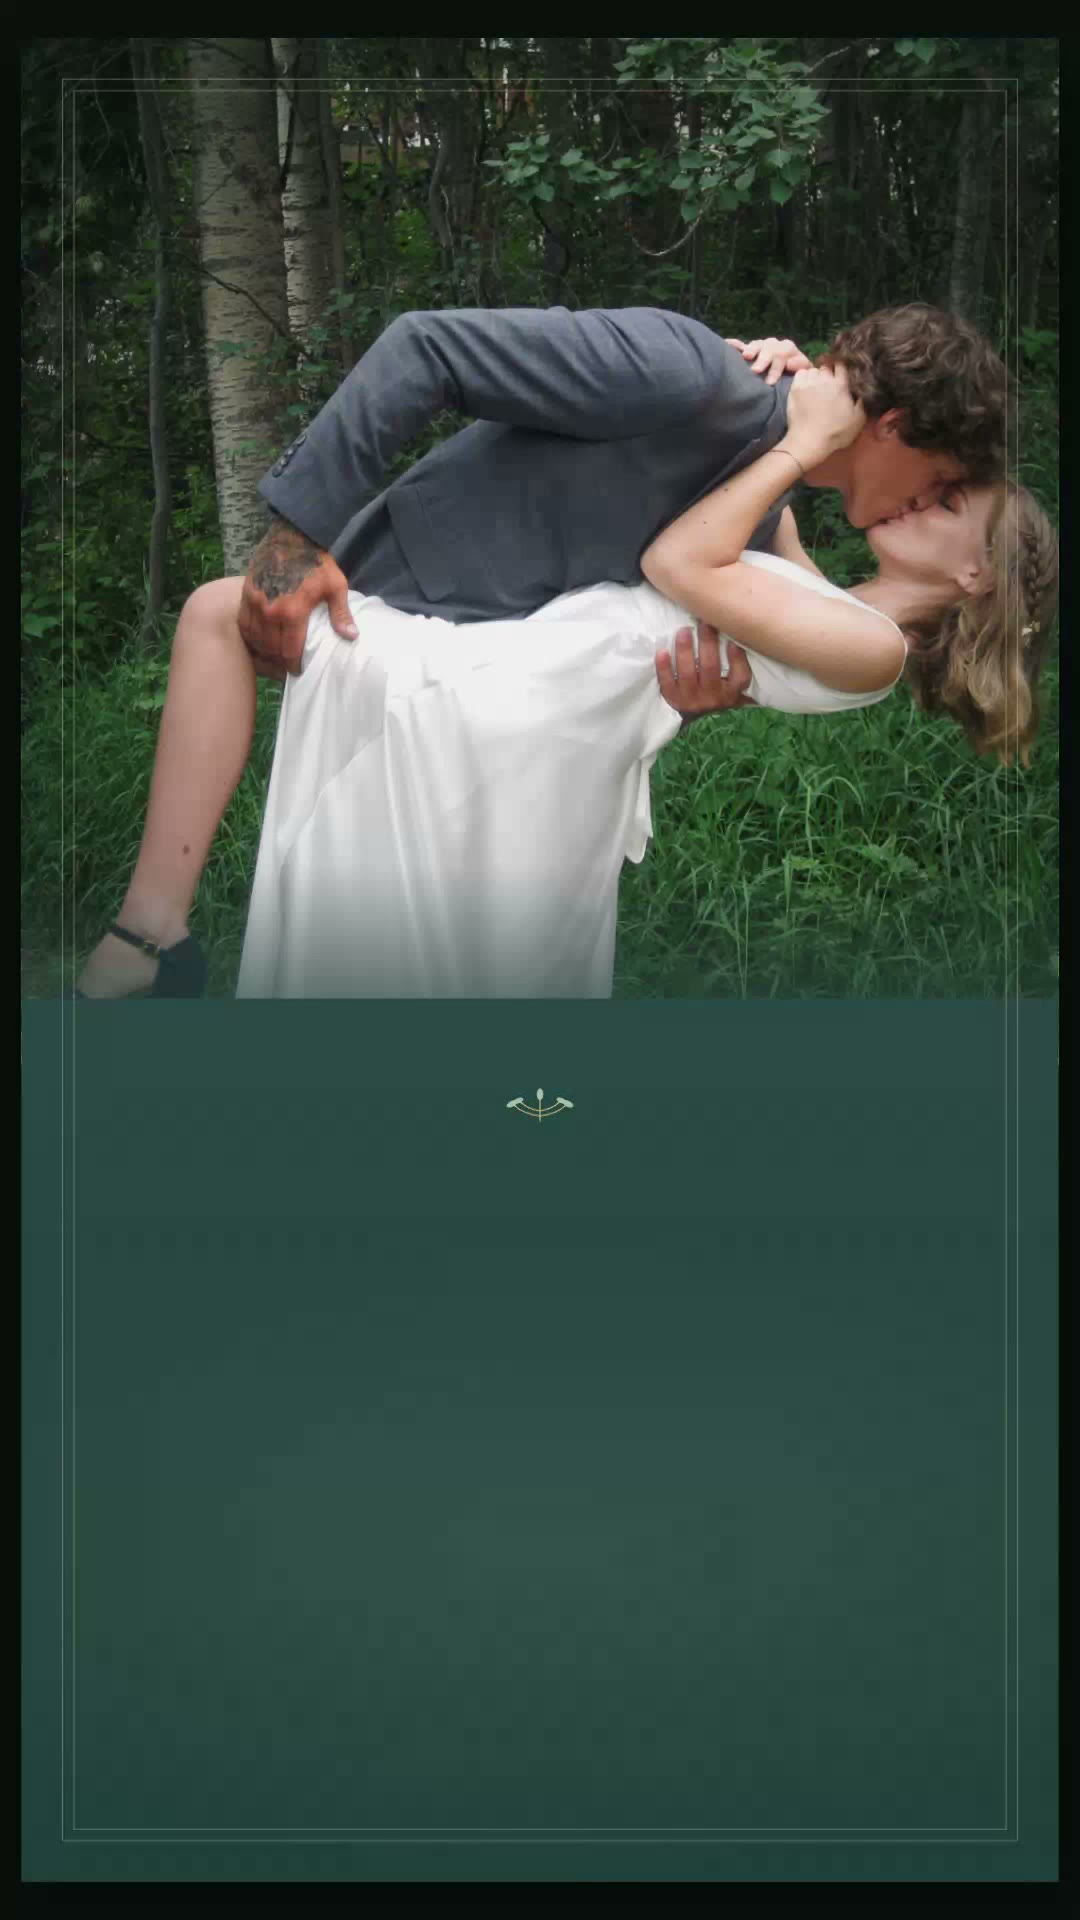
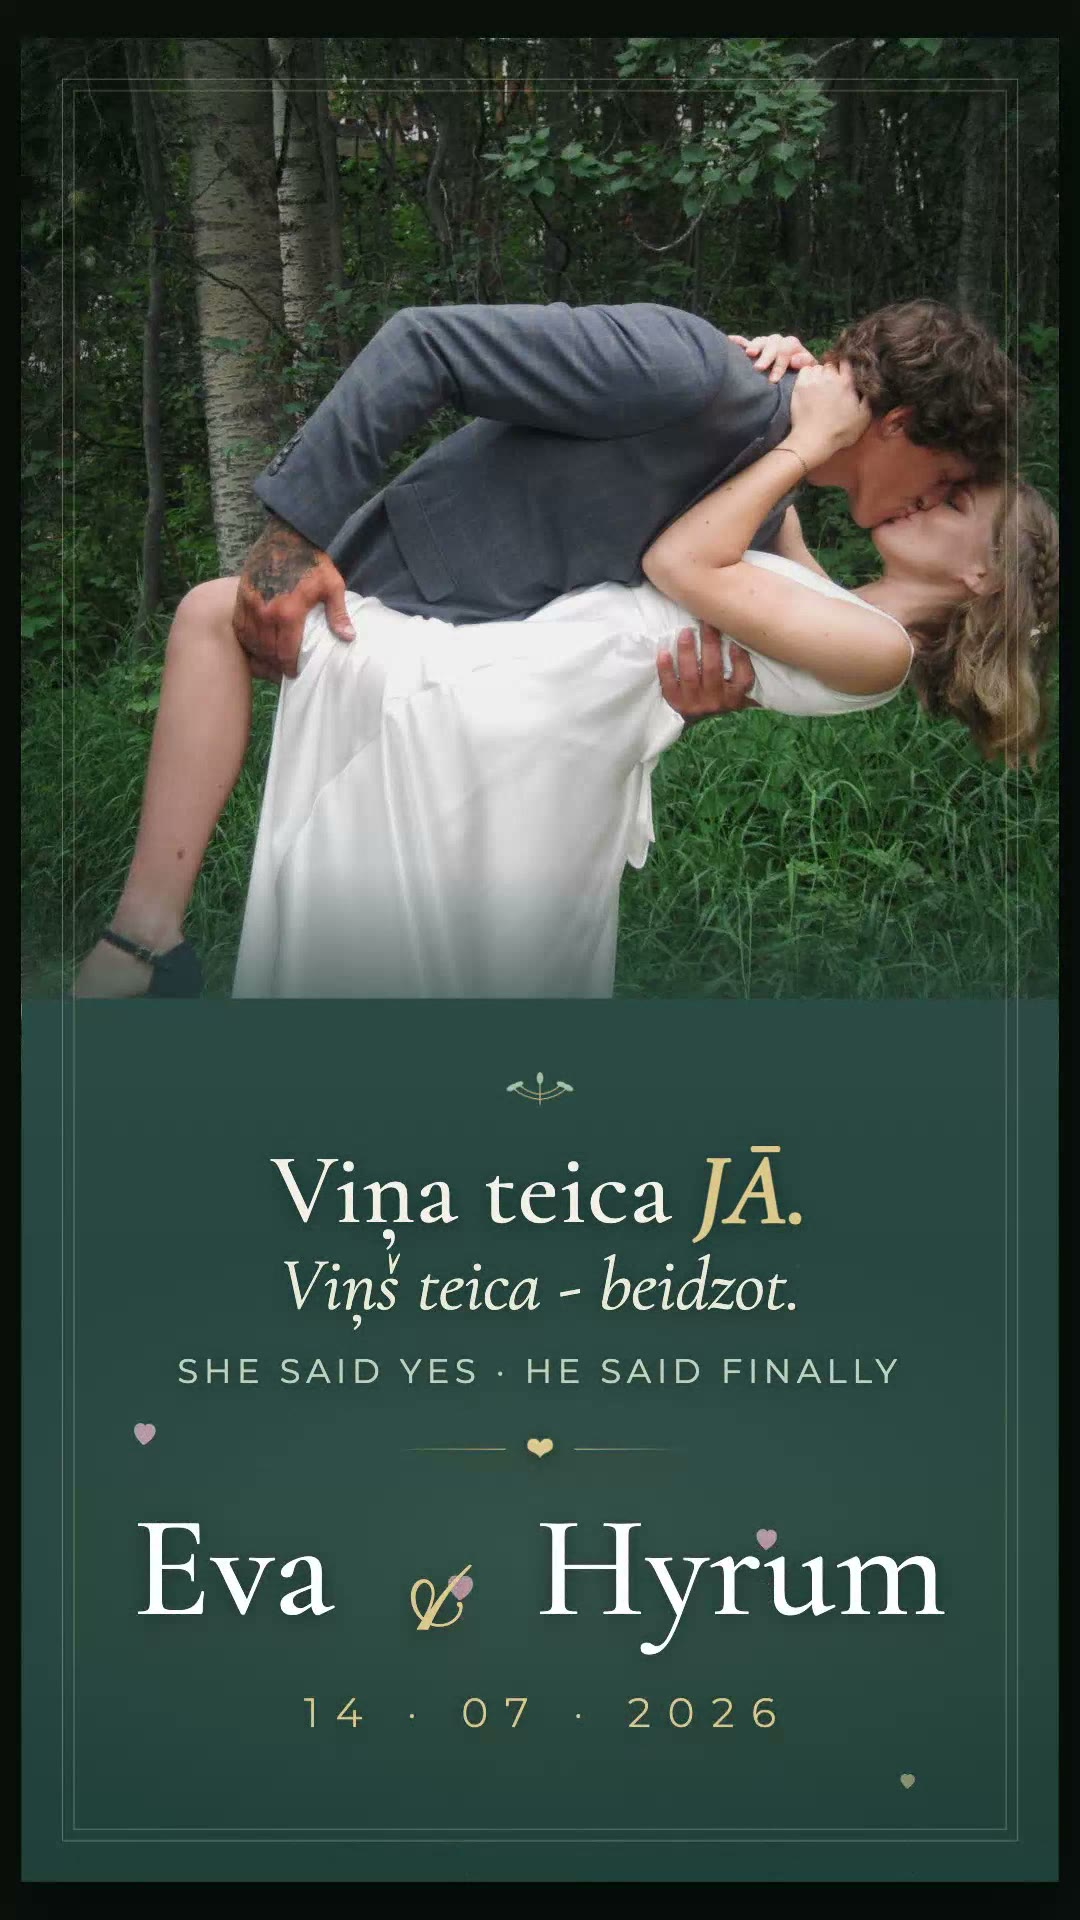
Elegant footer credits grid, story video starts at 0:05

diff --git a/index.html b/index.html
@@ -76,7 +76,7 @@
       <div class="story-grid">
         <div class="story-video">
           <video controls preload="metadata" playsinline poster="images/story-video-poster.jpg">
-            <source src="images/story-video.mp4" type="video/mp4" />
+            <source src="images/story-video.mp4#t=5" type="video/mp4" />
           </video>
         </div>
         <div class="story-text">
@@ -143,38 +143,50 @@
     <div class="container center">
       <p class="footer-monogram">E &amp; H</p>
       <p class="footer-date">14 · 07 · 2026</p>
-      <p class="footer-tag">#EvaHyrum2026</p>
-      <p class="footer-invite-link">
-        <a class="credit-link" href="invite.html">
-          <span data-lang="en">Our wedding invitation ↗</span>
-          <span data-lang="lv">Mūsu kāzu ielūgums ↗</span>
-        </a>
-      </p>
       <p class="footer-love">
         <span data-lang="en">With all our love, Eva &amp; Hyrum</span>
         <span data-lang="lv">Ar mīlestību, Eva un Hyrum</span>
       </p>
-      <div class="footer-credits">
-        <p class="footer-credit">
-          <span data-lang="en">Eva &amp; Hyrum: <a class="credit-link" href="https://www.instagram.com/evaferbey" target="_blank" rel="noopener">@evaferbey</a></span>
-          <span data-lang="lv">Eva un Hyrum: <a class="credit-link" href="https://www.instagram.com/evaferbey" target="_blank" rel="noopener">@evaferbey</a></span>
-        </p>
-        <p class="footer-credit">
-          <span data-lang="en">Photography: <a class="credit-link" href="https://www.instagram.com/o_zernov" target="_blank" rel="noopener">Oļegs Zernovs</a></span>
-          <span data-lang="lv">Fotogrāfs: <a class="credit-link" href="https://www.instagram.com/o_zernov" target="_blank" rel="noopener">Oļegs Zernovs</a></span>
-        </p>
-        <p class="footer-credit">
-          <span data-lang="en">Wedding planner: <a class="credit-link" href="https://www.instagram.com/alisemihimana" target="_blank" rel="noopener">Alise Mihman</a></span>
-          <span data-lang="lv">Kāzu plānotāja: <a class="credit-link" href="https://www.instagram.com/alisemihimana" target="_blank" rel="noopener">Alise Mihman</a></span>
-        </p>
-        <p class="footer-credit">
-          <span data-lang="en">Dress: <a class="credit-link" href="https://www.instagram.com/mossbridal" target="_blank" rel="noopener">Moss Bridal</a> · Groom's look: <a class="credit-link" href="https://www.instagram.com/monokelriga" target="_blank" rel="noopener">Monokel Riga</a></span>
-          <span data-lang="lv">Kleita: <a class="credit-link" href="https://www.instagram.com/mossbridal" target="_blank" rel="noopener">Moss Bridal</a> · Līgavaiņa tērps: <a class="credit-link" href="https://www.instagram.com/monokelriga" target="_blank" rel="noopener">Monokel Riga</a></span>
-        </p>
-        <p class="footer-credit">
-          <span data-lang="en">Venue: <a class="credit-link" href="https://www.instagram.com/nordeku_muiza" target="_blank" rel="noopener">Nordeķu Muiža</a>, Rīga</span>
-          <span data-lang="lv">Norises vieta: <a class="credit-link" href="https://www.instagram.com/nordeku_muiza" target="_blank" rel="noopener">Nordeķu muiža</a>, Rīga</span>
-        </p>
+      <p class="footer-tagrow">
+        <a class="footer-pill" href="https://www.instagram.com/evaferbey" target="_blank" rel="noopener">@evaferbey</a>
+        <span class="footer-pill footer-pill-static">#EvaHyrum2026</span>
+        <a class="footer-pill" href="invite.html">
+          <span data-lang="en">Invitation ↗</span>
+          <span data-lang="lv">Ielūgums ↗</span>
+        </a>
+      </p>
+      <div class="footer-rule" aria-hidden="true"></div>
+      <div class="footer-credits-grid">
+        <div class="credit-item">
+          <span class="credit-label" data-lang="en">Photography</span>
+          <span class="credit-label" data-lang="lv">Fotogrāfs</span>
+          <a class="credit-name" href="https://www.instagram.com/o_zernov" target="_blank" rel="noopener">Oļegs Zernovs</a>
+        </div>
+        <div class="credit-item">
+          <span class="credit-label" data-lang="en">Wedding planner</span>
+          <span class="credit-label" data-lang="lv">Kāzu plānotāja</span>
+          <a class="credit-name" href="https://www.instagram.com/alisemihimana" target="_blank" rel="noopener">Alise Mihman</a>
+        </div>
+        <div class="credit-item">
+          <span class="credit-label" data-lang="en">Venue</span>
+          <span class="credit-label" data-lang="lv">Norises vieta</span>
+          <a class="credit-name" href="https://www.instagram.com/nordeku_muiza" target="_blank" rel="noopener">Nordeķu muiža</a>
+        </div>
+        <div class="credit-item">
+          <span class="credit-label" data-lang="en">Dress</span>
+          <span class="credit-label" data-lang="lv">Kleita</span>
+          <a class="credit-name" href="https://www.instagram.com/mossbridal" target="_blank" rel="noopener">Moss Bridal</a>
+        </div>
+        <div class="credit-item">
+          <span class="credit-label" data-lang="en">Groom's look</span>
+          <span class="credit-label" data-lang="lv">Līgavaiņa tērps</span>
+          <a class="credit-name" href="https://www.instagram.com/monokelriga" target="_blank" rel="noopener">Monokel Riga</a>
+        </div>
+        <div class="credit-item">
+          <span class="credit-label" data-lang="en">Film &amp; moments</span>
+          <span class="credit-label" data-lang="lv">Video un mirkļi</span>
+          <a class="credit-name" href="https://www.instagram.com/evaferbey" target="_blank" rel="noopener">@evaferbey</a>
+        </div>
       </div>
     </div>
   </footer>

diff --git a/after.css b/after.css
@@ -201,12 +201,61 @@
 .footer-credits .credit-link { border-bottom-color: rgba(244, 241, 234, 0.35); }
 
 /* Footer */
-.footer { background: #1a2332; color: #f4f1ea; padding: 3.4rem 0 3rem; text-align: center; }
+.footer { background: #1a2332; color: #f4f1ea; padding: 3.6rem 0 3.2rem; text-align: center; }
 .footer-monogram { font-family: 'Cormorant Garamond', serif; font-size: 1.9rem; letter-spacing: 0.25em; margin: 0; }
 .footer-date { letter-spacing: 0.3em; font-size: 0.85rem; margin: 0.5rem 0 0; opacity: 0.8; }
-.footer-tag { font-size: 0.85rem; letter-spacing: 0.12em; margin: 1.1rem 0 0; opacity: 0.65; }
-.footer-love { font-family: 'Cormorant Garamond', serif; font-style: italic; font-size: 1.15rem; margin: 1.2rem 0 0; }
-.footer-credit { font-size: 0.78rem; letter-spacing: 0.08em; margin: 1.4rem 0 0; opacity: 0.55; }
+.footer-love { font-family: 'Cormorant Garamond', serif; font-style: italic; font-size: 1.3rem; margin: 1.4rem 0 0; }
+.footer-tagrow {
+  display: flex;
+  justify-content: center;
+  flex-wrap: wrap;
+  gap: 0.6rem;
+  margin: 1.5rem 0 0;
+}
+.footer-pill {
+  font-family: 'Inter', sans-serif;
+  font-size: 0.78rem;
+  letter-spacing: 0.09em;
+  color: #f4f1ea;
+  text-decoration: none;
+  border: 1px solid rgba(244, 241, 234, 0.3);
+  border-radius: 999px;
+  padding: 0.42rem 1.1rem;
+  opacity: 0.85;
+}
+a.footer-pill:hover { opacity: 1; background: rgba(244, 241, 234, 0.08); }
+.footer-pill-static { opacity: 0.6; }
+.footer-rule {
+  width: 64px;
+  height: 1px;
+  background: rgba(244, 241, 234, 0.3);
+  margin: 2.4rem auto 2.2rem;
+}
+.footer-credits-grid {
+  display: grid;
+  grid-template-columns: repeat(3, minmax(0, 1fr));
+  gap: 1.6rem 1.2rem;
+  max-width: 720px;
+  margin: 0 auto;
+}
+@media (max-width: 620px) {
+  .footer-credits-grid { grid-template-columns: repeat(2, minmax(0, 1fr)); }
+}
+.credit-item { display: flex; flex-direction: column; gap: 0.3rem; }
+.credit-label {
+  font-family: 'Inter', sans-serif;
+  font-size: 0.66rem;
+  text-transform: uppercase;
+  letter-spacing: 0.2em;
+  opacity: 0.5;
+}
+.credit-name {
+  font-family: 'Cormorant Garamond', serif;
+  font-size: 1.15rem;
+  color: #f4f1ea;
+  text-decoration: none;
+}
+a.credit-name:hover { opacity: 0.75; }
 
 /* Lightbox */
 .lightbox[hidden] { display: none; }
